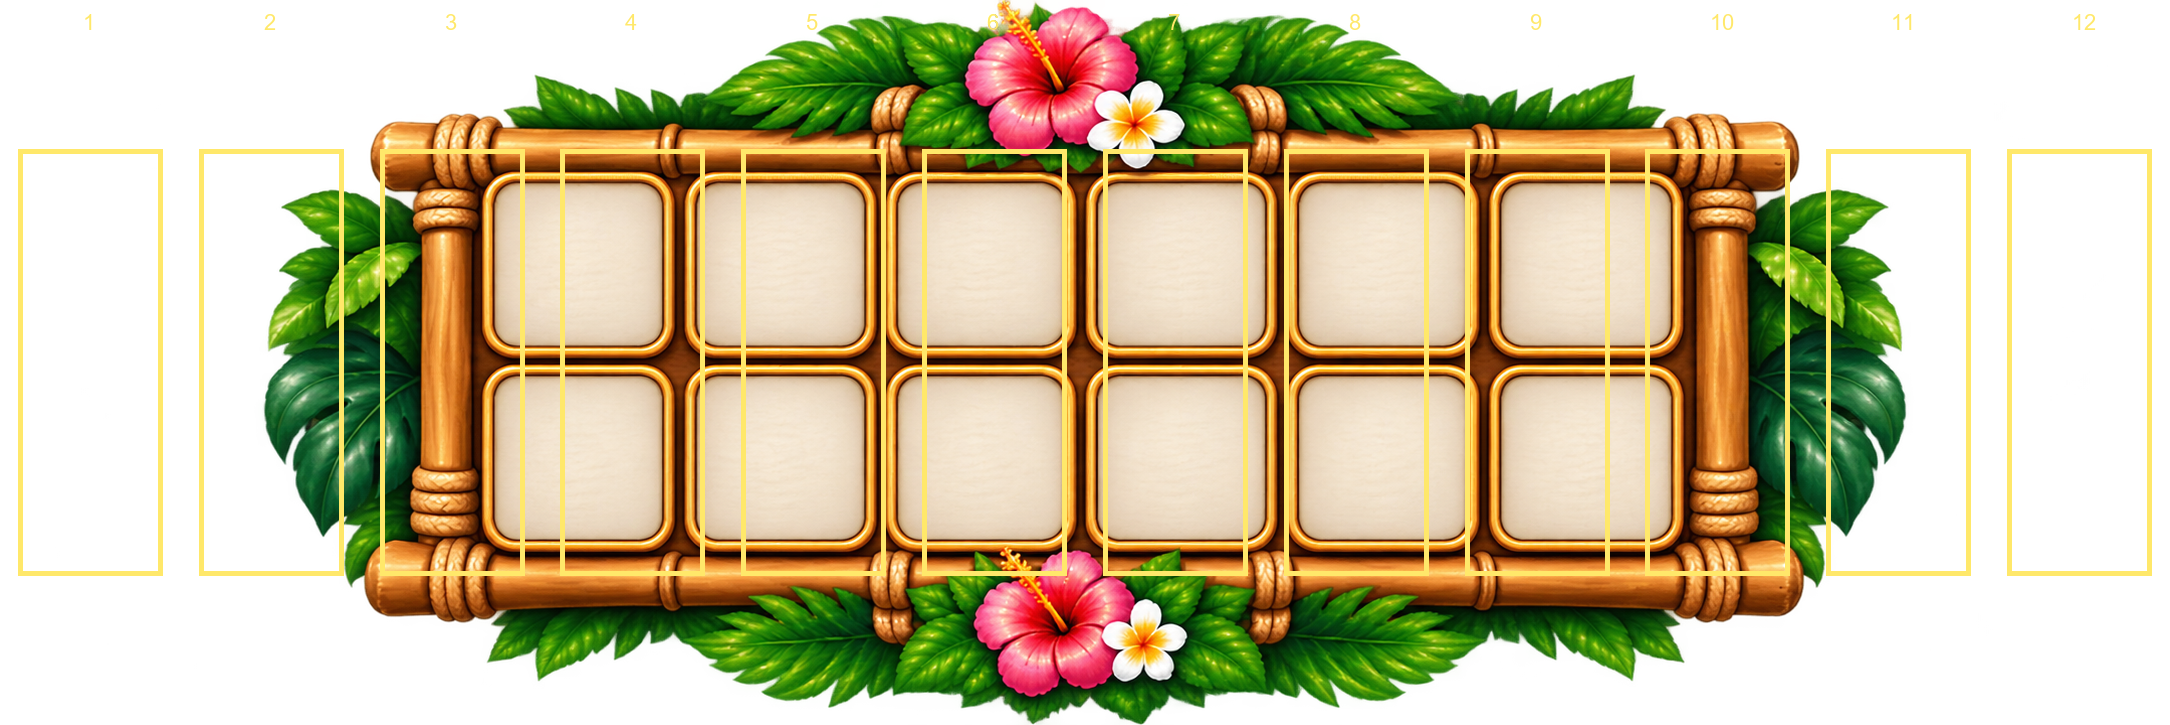
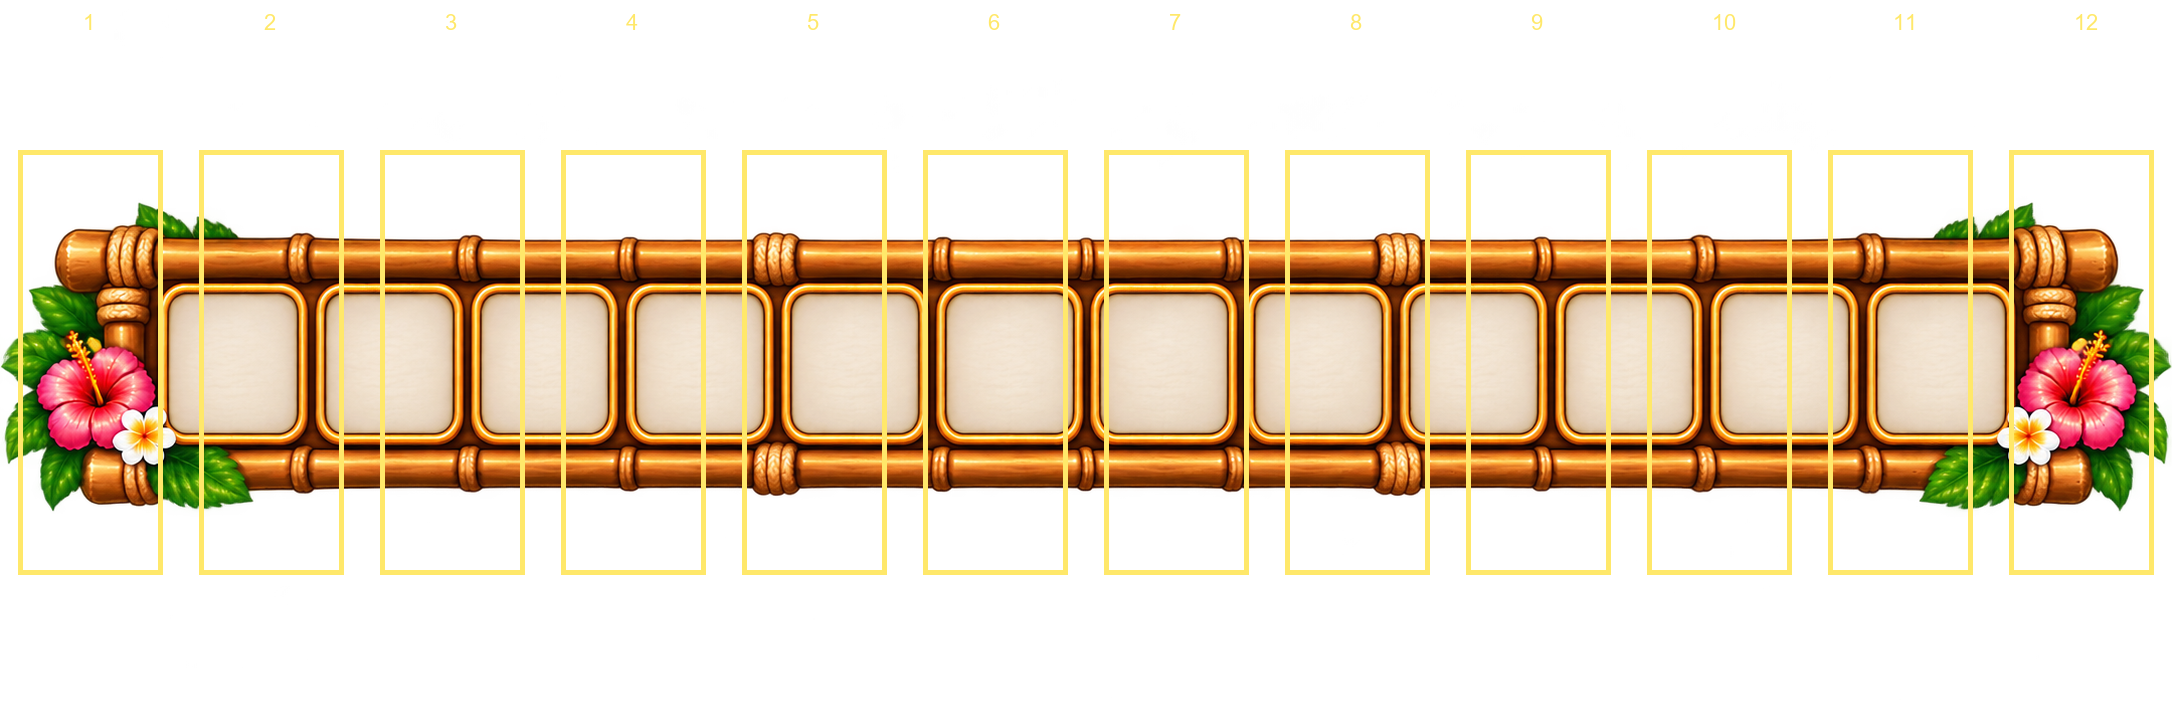
fix: align runtime cleanup with R04 assets

diff --git a/tools/m04_asset_validation.py b/tools/m04_asset_validation.py
@@ -15,12 +15,13 @@ from PIL import Image, ImageDraw, ImageFont, ImageOps
 ROOT = Path(__file__).resolve().parents[1]
 EVIDENCE = ROOT / "docs" / "evidence" / "m04"
 COCKTAILS = [Path("assets/cocktails") / f"L{level:02d}.png" for level in range(1, 13)]
-ENVIRONMENT = [Path("assets/environment/game_board_background.png")]
+ENVIRONMENT: list[Path] = []
 UI = [
     Path("assets/ui/logo_beach_cocktails_merge.png"),
     Path("assets/ui/panel_best_score.png"),
     Path("assets/ui/panel_score.png"),
     Path("assets/ui/panel_to_go_orders.png"),
+    Path("assets/ui/panel_to_go_vip_orders.png"),
     Path("assets/ui/panel_next.png"),
     Path("assets/ui/progression_strip.png"),
     Path("assets/ui/launch_zone.png"),
@@ -43,7 +44,6 @@ EFFECT_CLASSIFICATION = {
 EVIDENCE_SHEETS = {
     "cocktails": "cocktails_contact_sheet.png",
     "ui": "ui_contact_sheet.png",
-    "environment": "environment_reference.png",
     "effects": "effects_contact_sheet.png",
 }
 
@@ -176,7 +176,6 @@ def make_references() -> None:
     contact_sheet(COCKTAILS, EVIDENCE / "cocktails_contact_sheet.png", 4, (320, 330))
     contact_sheet(UI, EVIDENCE / "ui_contact_sheet.png", 2, (640, 390))
     contact_sheet(EFFECTS, EVIDENCE / "effects_contact_sheet.png", 2, (700, 390))
-    shutil.copyfile(ROOT / ENVIRONMENT[0], EVIDENCE / "environment_reference.png")
     shutil.copyfile(ROOT / "b75ee426-9568-4ed6-b35e-140600a7c995.png", EVIDENCE / "master_reference.png")
     slots = make_progression_evidence(
         Path("assets/ui/progression_strip.png"),
@@ -266,7 +265,7 @@ def main() -> int:
         delta = [best["dimensions"][0] - score["dimensions"][0], best["dimensions"][1] - score["dimensions"][1]]
         print(f"M04_PANEL_DIMENSIONS best={best['dimensions'][0]}x{best['dimensions'][1]} score={score['dimensions'][0]}x{score['dimensions'][1]} match={delta == [0, 0]} delta={delta}")
     slots = make_references()
-    print(f"M04_VISUAL_EVIDENCE generated=7 progression_slots_annotated={len(slots)} classification=MANUAL_VISUAL_EVIDENCE")
+    print(f"M04_VISUAL_EVIDENCE generated=6 progression_slots_annotated={len(slots)} classification=MANUAL_VISUAL_EVIDENCE")
 
     for path, sheet in EVIDENCE_SHEETS.items():
         pass
@@ -277,7 +276,6 @@ def main() -> int:
         "evidence": {
             "cocktails_contact_sheet.png": {"source_paths": [p.as_posix() for p in COCKTAILS], "classification": "MANUAL_VISUAL_EVIDENCE"},
             "ui_contact_sheet.png": {"source_paths": [p.as_posix() for p in UI], "classification": "MANUAL_VISUAL_EVIDENCE"},
-            "environment_reference.png": {"source_paths": [p.as_posix() for p in ENVIRONMENT], "classification": "MANUAL_VISUAL_EVIDENCE"},
             "effects_contact_sheet.png": {"source_paths": [p.as_posix() for p in EFFECTS], "classification": "MANUAL_VISUAL_EVIDENCE"},
             "master_reference.png": {"source_paths": ["b75ee426-9568-4ed6-b35e-140600a7c995.png"], "classification": "OWNER_MASTER_REFERENCE"},
             "progression_strip_12_slots.png": {"source_paths": ["assets/ui/progression_strip.png"], "slots": slots, "classification": "MANUAL_VISUAL_EVIDENCE"},

diff --git a/AGENTS.md b/AGENTS.md
@@ -195,8 +195,6 @@ Canonical asset structure:
 assets/
   cocktails/
     L01.png ... L12.png
-  environment/
-    game_board_background.png
   ui/
     logo_beach_cocktails_merge.png
     panel_best_score.png
@@ -302,7 +300,7 @@ During the authorized cleanup, Codex may delete tracked or untracked files that 
 
 ### Current owner-deleted legacy background
 
-`assets/environment/game_board_background.png` is currently an owner-local deletion candidate. Do not restore it merely because an old field still references it. First determine whether any current screen still truly needs that file. If the reference is obsolete under the R04/current island-map architecture, update the authoritative data/schema/tests safely and keep the deletion. If it is genuinely still required by a current accepted screen, stop and report that conflict rather than silently restoring/replacing it.
+`assets/environment/game_board_background.png` is retired by the R04 gameplay-surface authority and current Island Map theme architecture. Gameplay renders each island's `gameplay_surface.png`; Island Map backgrounds resolve from `theme.island_map_background`. The old generic image and top-level `map_background` field are not runtime dependencies.
 
 ## Repository hygiene and Desktop worktree policy
 
